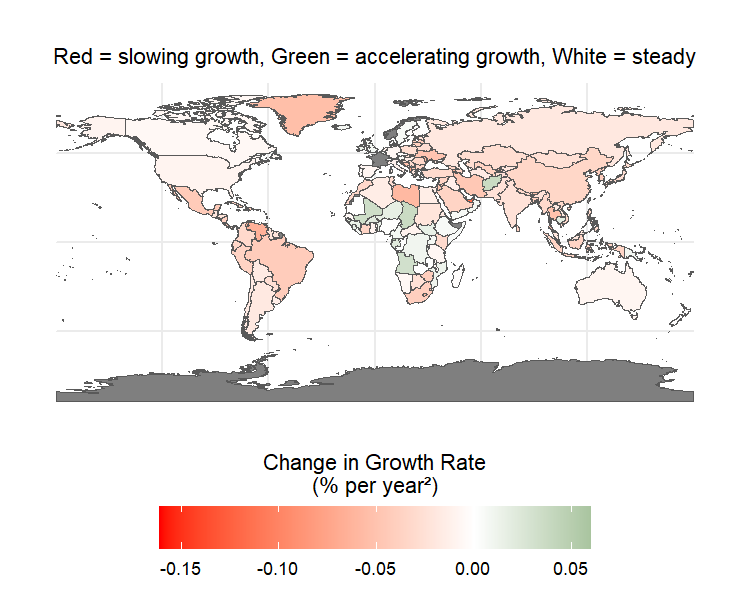
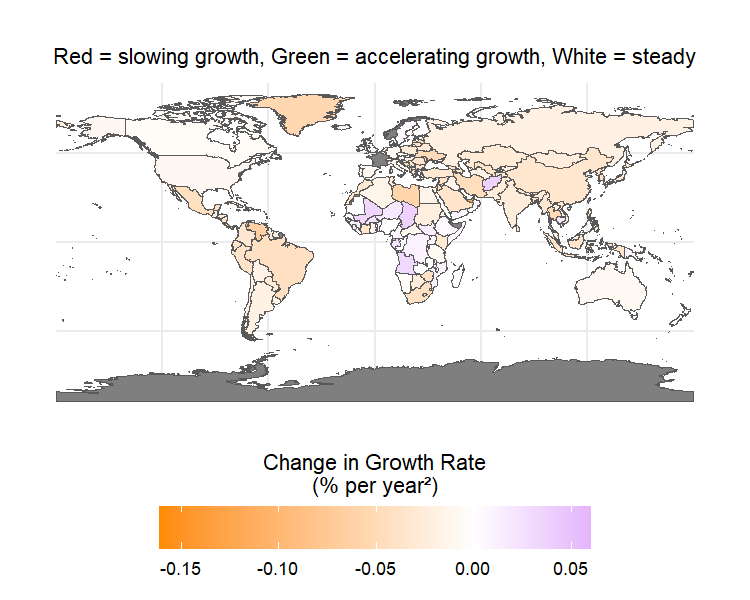
post 9/19

diff --git a/posts/2025-09-19.html b/posts/2025-09-19.html
@@ -1,0 +1,61 @@
+
+<!DOCTYPE html>
+<html lang="en">
+<head>
+    <meta charset="UTF-8" />
+    <title>Population Growth Acceleration and Deceleration by Country - 2025-09-19</title>
+    <link rel="stylesheet" href="../styles.css" />
+    <meta name="viewport" content="width=device-width, initial-scale=1.0">
+    <meta name="description" content="The map shows the long-term trend of population growth rates in each country. The color gradient represents the annual change in growth rate in percent per year squared. Red indicates slowing growth white indicates steady growth and green indicates accelerating growth. Countries with a negative growth rate representing shrinking populations are included and the gradient indicates whether their decline is speeding up or slowing down." />
+</head>
+<body>
+    <header class="header">
+        <div class="logo-container">
+            <img src="../LOGO.png" alt="Logo" class="logo" />
+            <h1 class="site-title"><a href="../index.html">The DailyDATA</a></h1>
+        </div>
+        <nav class="navbar">
+            <ul>
+                <li><a href="../about.html">About</a></li>
+                <li><a href="../contact.html">Contact</a></li>
+                <li><a href="../people.html">People</a></li>
+                <li><a href="../terms-of-use.html">Terms of Use</a></li>
+            </ul>
+        </nav>
+    </header>
+
+    <div class="container">
+        <div class="main-content">
+            <h2 class="main-title">Population Growth Acceleration and Deceleration by Country</h2>
+            <div class="date">2025-09-19</div>
+            <img src="../Figures/2025-09-19.png" alt="Figure for 2025-09-19" class="main-figure" />
+            <div class="text">
+                <p class="caption">Did you know that most countries in the world are experiencing slowing population growth while parts of Africa continue to see accelerating growth due to higher fertility rates and younger populations.</p>
+                <br />
+                <hr />
+                <br />
+                <p class="description">The map shows the long-term trend of population growth rates in each country. The color gradient represents the annual change in growth rate in percent per year squared. Red indicates slowing growth white indicates steady growth and green indicates accelerating growth. Countries with a negative growth rate representing shrinking populations are included and the gradient indicates whether their decline is speeding up or slowing down.</p>
+                <br />
+                <p class="datasource">Data source: Map was created using World Bank Population Data.</p>
+                <br />
+                <p><strong>Please note that we created these figures to be as accurate as possible, but they have not been formally peer reviewed and should not be considered definitive scholarly work</strong></p>
+            </div>
+        </div>
+
+        <aside class="sidebar">
+            <div class="prev-figure-container">
+                <h3 class="prev-label">Previous Day's</h3>
+                <a href="2025-09-18.html">
+                    <img src="../Figures/2025-09-18.png" alt="Previous figure for 2025-09-18" class="prev-figure" />
+                </a>
+            </div>
+            
+        </aside>
+    </div>
+
+    <footer class="footer">
+        <img src="../LOGO.png" alt="Logo Small" class="footer-logo" />
+        <p>&copy; 2025 The DailyDATA. All rights reserved.</p>
+    </footer>
+</body>
+</html>

diff --git a/posts/2025-09-18.html b/posts/2025-09-18.html
@@ -49,7 +49,12 @@
                     <img src="../Figures/2025-09-17.png" alt="Previous figure for 2025-09-17" class="prev-figure" />
                 </a>
             </div>
-            
+            <div class="next-figure-container">
+                <h3 class="next-label">Next Day's</h3>
+                <a href="2025-09-19.html">
+                    <img src="../Figures/2025-09-19.png" alt="Next figure for 2025-09-19" class="next-figure" />
+                </a>
+            </div>
         </aside>
     </div>
 
